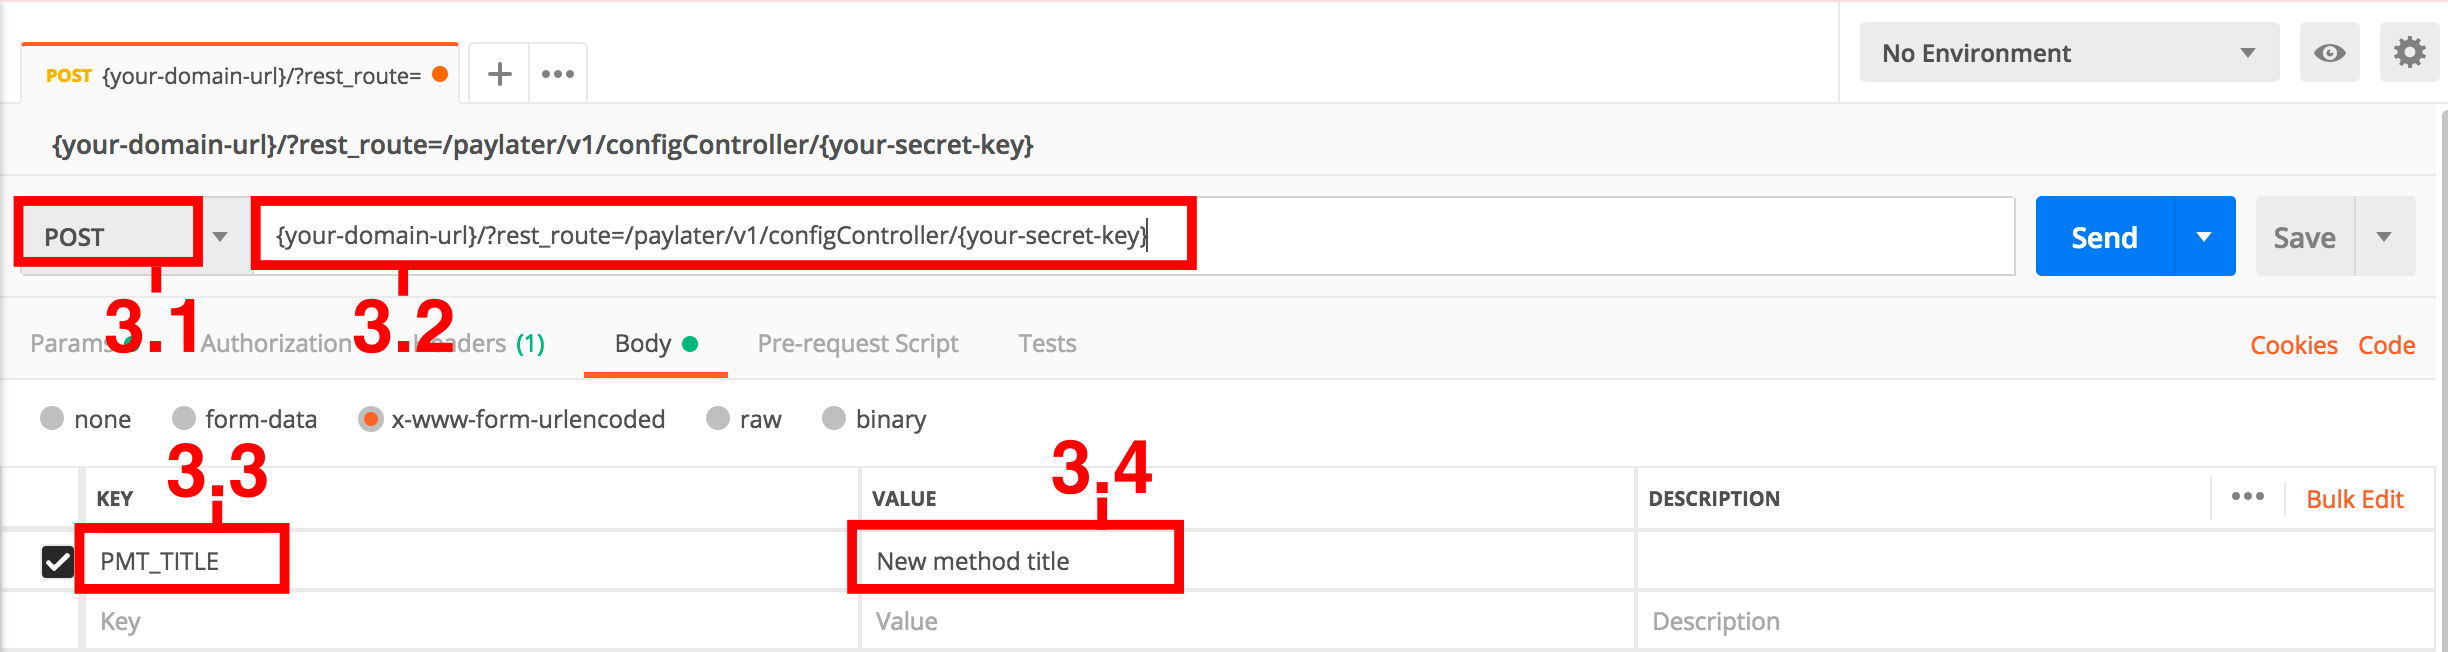
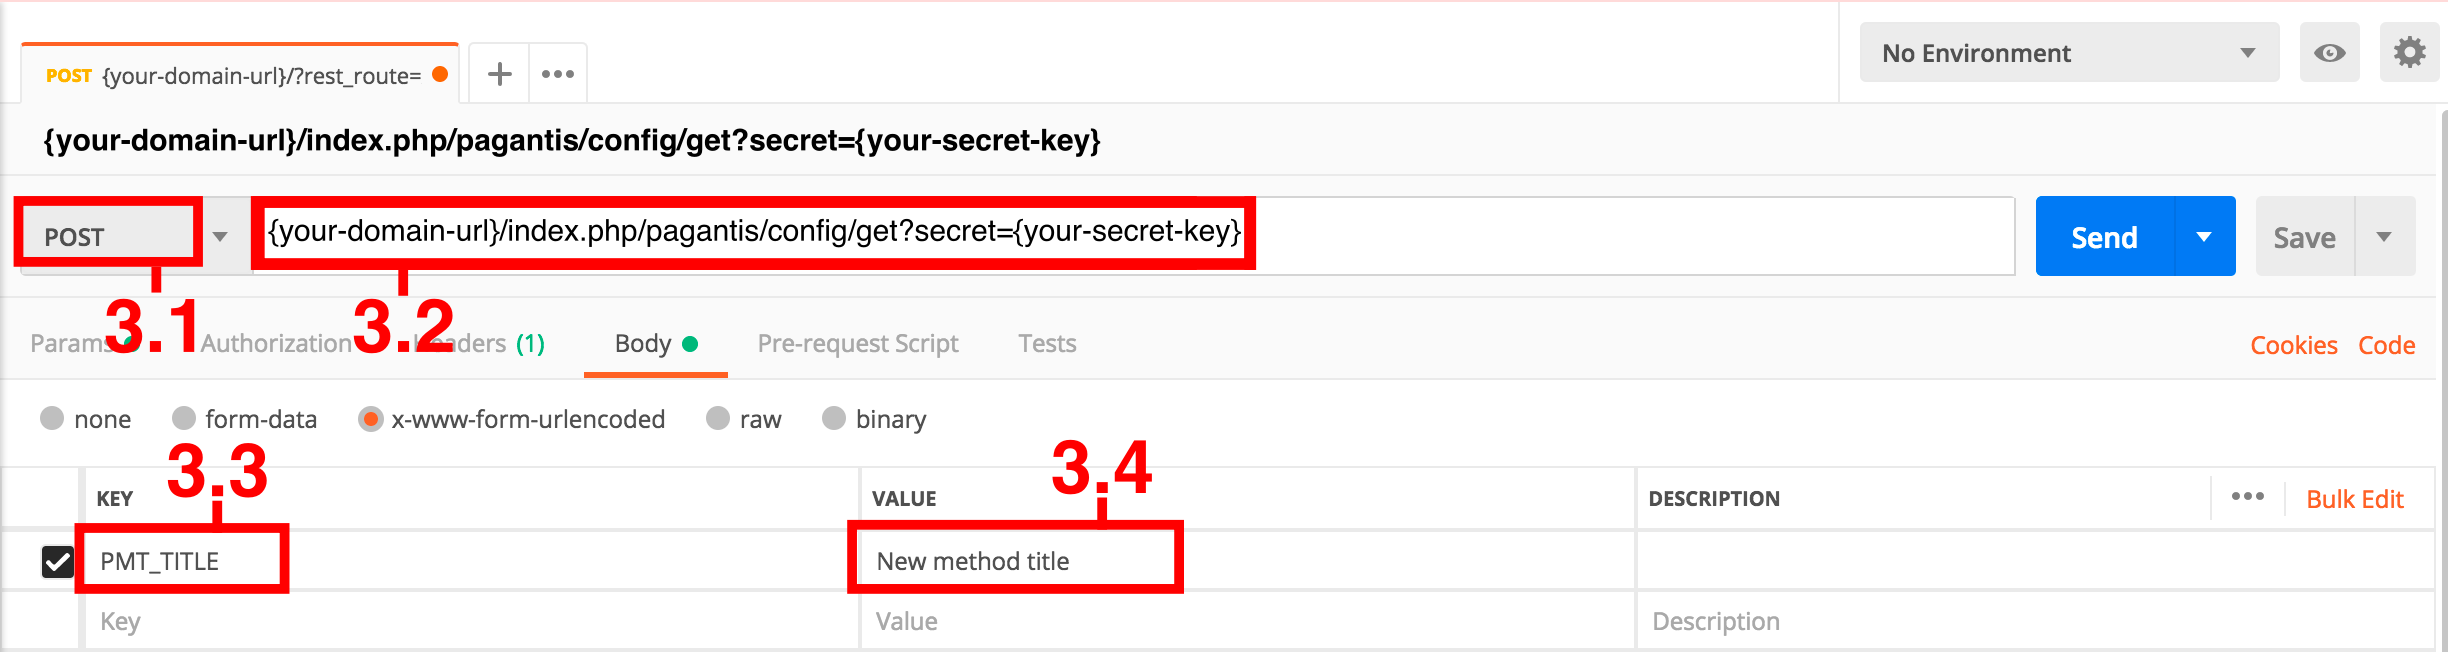
Configuration instructions

Changed region(s): [[0.0931, 0.2761, 0.5278, 0.4294], [0.0, 0.184, 0.4657, 0.2454]]

diff --git a/Documentation/configuration.md b/Documentation/configuration.md
@@ -50,7 +50,32 @@ Here you have a complete list of configurations you can change and it's explanat
 | PAGANTIS_ALLOWED_COUNTRIES               | Array of country codes where the method can be used 
 
 
-Example using postman
+##### Edit using database
+1 - Open your database management (Frequently Cpanel->phpmyadmin) 
+
+2 - Connect to wordpress database. (Frequently called wordpress)
+
+3 - Launch a query to check if the table exists: select * from wp_pagantis_config
+![Step 3](./sql_step3.png?raw=true "Step 1")
+
+4 - Find the config field to edit, in this example we are going to edit: PAGANTIS_TITlE 
+
+5 - Launch a query to edit their value: Update wp_pagantis_config set value='New title' where config='PAGANTIS_TITLE'
+![Step 5](./sql_step5.png?raw=true "Step 5")
+
+6 - After the modification, you can check it launching the query: "select * from wp_pagantis_config"
+![Step 6](./sql_step6.png?raw=true "Step 6")
+
+7 - Finally you can see the change in checkout page
+![Step 7](./sql_step7.png?raw=true "Step 7")
+
+##### Edit using postman
+
+To modify the configuration you only need to make a post to:
+
+<strong>{your-domain-url}/index.php/pagantis/config/get?secret={your-secret-key}</strong>
+
+Sending in the form data the key of the config you want to change and the new value.
 
 1 - Open the application
 ![Step 1](./postman_step1.png?raw=true "Step 1")
